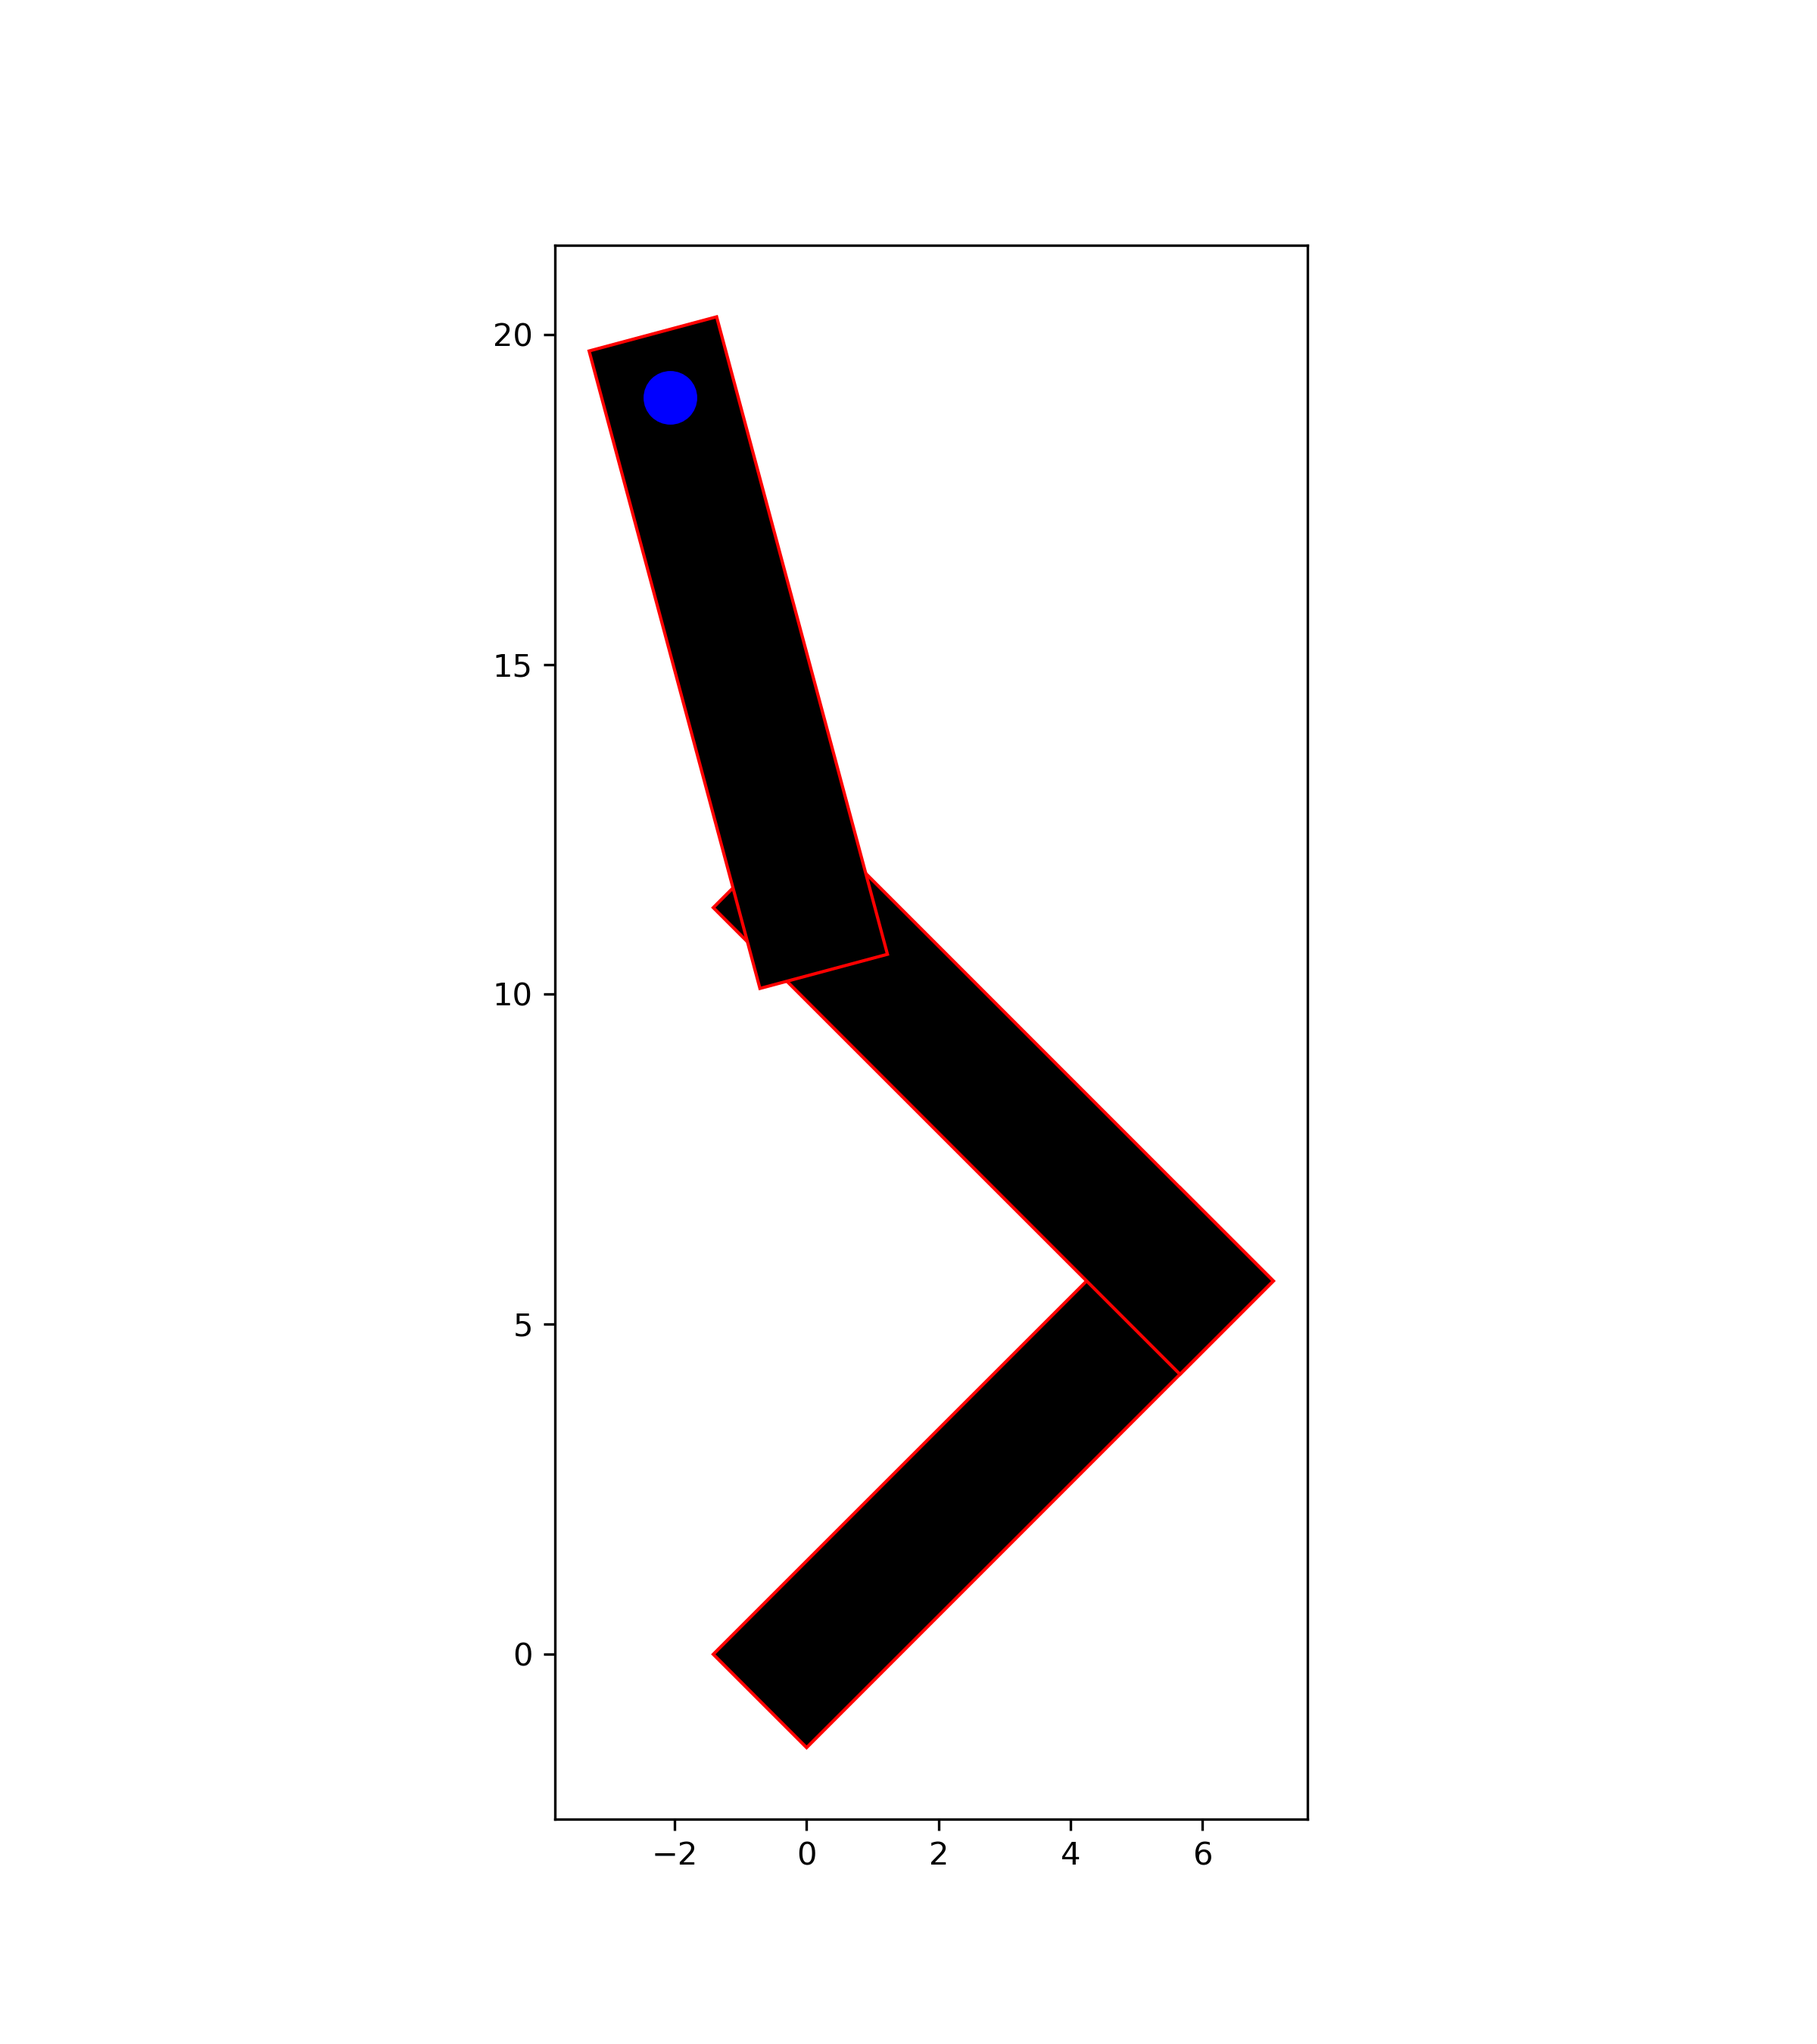
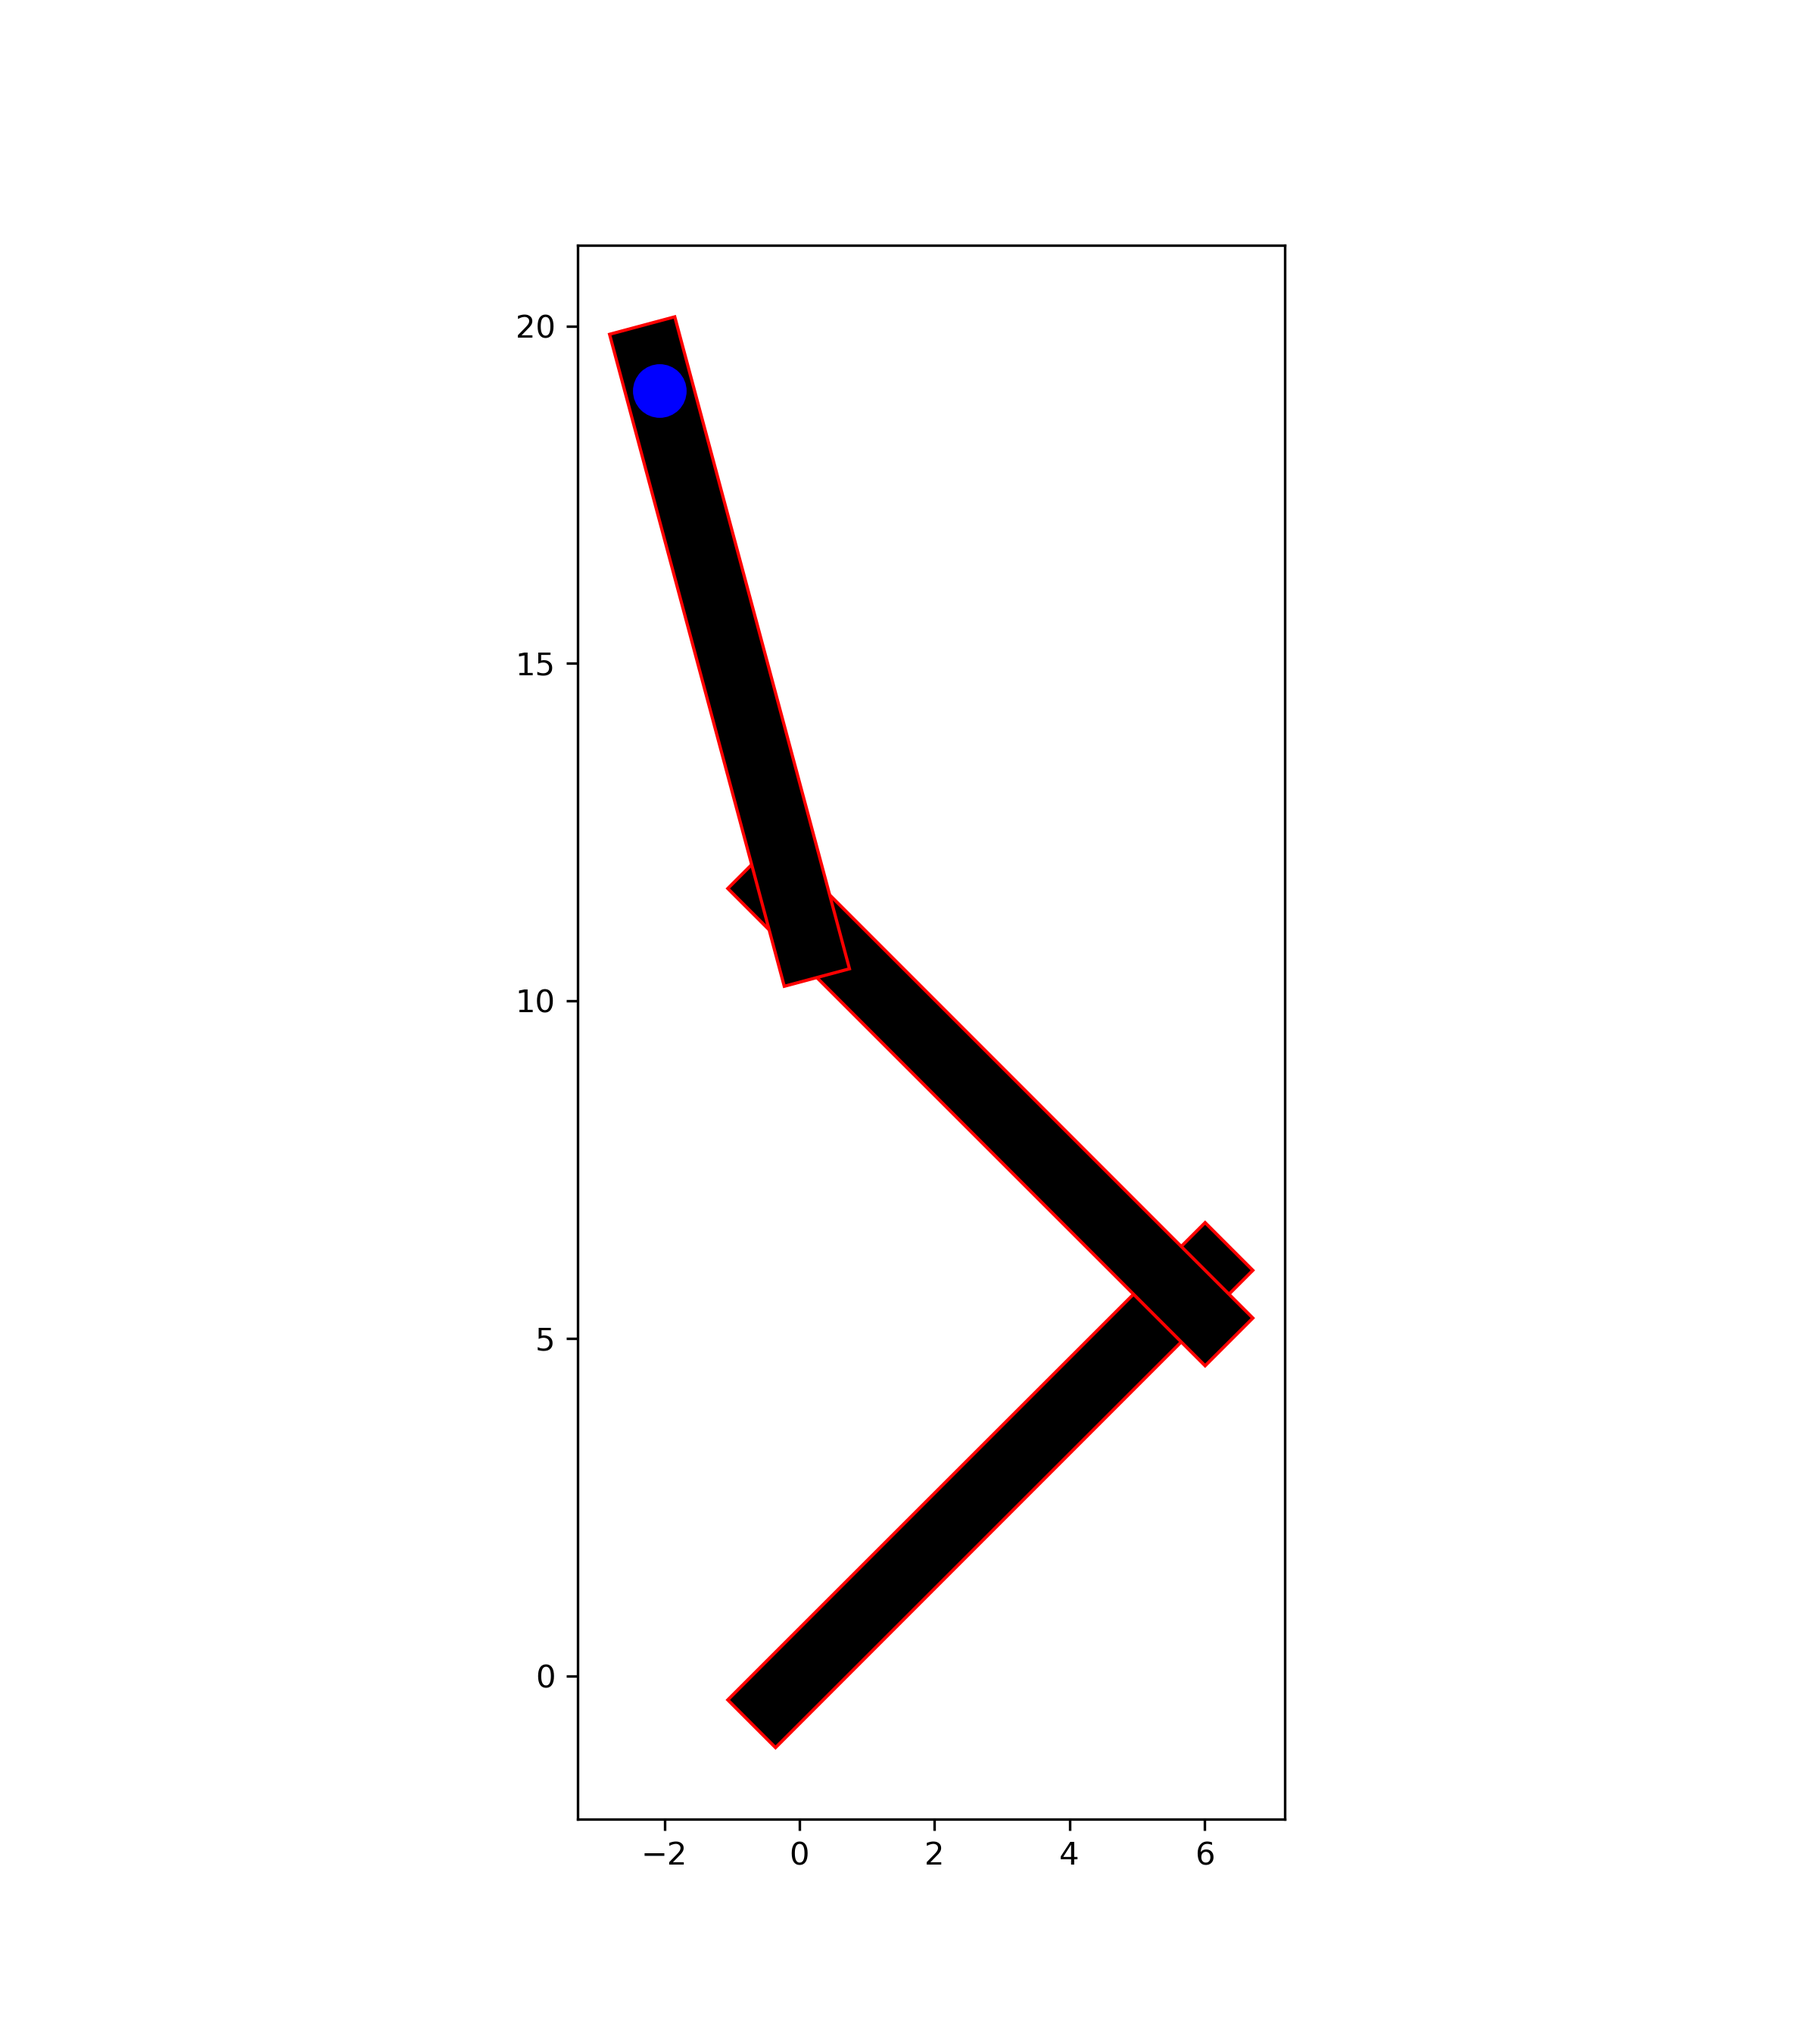
adding sketchy inverse kinematic solver for 2D objective with 3DoF manipulator

diff --git a/kinematics/Manipulator.py b/kinematics/Manipulator.py
@@ -21,31 +21,30 @@ class Manipulator:
     def __init__(self, desEndEffectorLocation, desJointAngles, links,
                  shouldSavePlots, baseSaveFName):
 
+        self.shouldSavePlots = shouldSavePlots
+        self.baseSaveFName = baseSaveFName
+
         self.links = links
         self.numLinks = len(links)
+        self.IK_TOL = 1e-6
 
         # start manipulator with all joints fully extended
         self.jointAngles = [0, 0, 0]
+        self.endEffectorLocation = [0, 0]
 
         if desJointAngles is not None:
             self.desJointAngles = desJointAngles
+            self.setAnglesToDesired()
         else:
             self.desJointAngles = self.jointAngles
-
-        print(self.desJointAngles)
-        print(self.jointAngles)
-        self.setEffectorToDesired()
-        print(self.endEffectorLocation)
 
         # need to convert effector location to numpy arrays for easy
         # transformation
         if desEndEffectorLocation is not None:
             self.desEndEffectorLocation = np.array(desEndEffectorLocation)
+            self.setEffectorToDesired()
         else:
             self.desEndEffectorLocation = self.endEffectorLocation
-
-        self.shouldSavePlots = shouldSavePlots
-        self.baseSaveFName = baseSaveFName
 
     #
     # @brief      reads in Link and kinematics parameters from YAML config file
@@ -69,11 +68,14 @@ class Manipulator:
         return (linkLengths, jointOffset,
                 desJointAnglesSet, desEndEffectorLocations)
 
-    def setEffectorToDesired(self):
+    def setAnglesToDesired(self):
 
         desJA = self.desJointAngles
         (self.links,
          self.endEffectorLocation) = self.forwardKinematics(self.links, desJA)
+
+        print('joint angles: ', self.jointAngles)
+        print('effector at: ', self.endEffectorLocation)
 
     def forwardKinematics(self, links, desJointAngles):
 
@@ -117,6 +119,82 @@ class Manipulator:
                                         endEffectorLocationXYZ[1]])
 
         return (links, endEffectorLocation)
+
+    def setEffectorToDesired(self):
+
+        desEff = self.desEndEffectorLocation
+        print('desired end effector pos:', desEff)
+        (self.links,
+         self.jointAngles) = self.inverseKinematics(self.links, desEff)
+
+        print('joint angles: ', self.jointAngles)
+        print('effector at: ', self.endEffectorLocation)
+
+    def inverseKinematics(self, links, desEndEffectorLocation):
+
+        x = desEndEffectorLocation[0]
+        y = desEndEffectorLocation[1]
+
+        a1 = links[0].linkLength - 2 * links[0].jointOffset
+        a2 = links[1].linkLength - 2 * links[1].jointOffset
+        a3 = links[2].linkLength - 2 * links[2].jointOffset
+
+        possibleTheta2 = []
+        possibleTheta3 = []
+
+        possibleTheta1 = np.linspace(0, math.pi, num=4)
+
+        for theta1 in possibleTheta1:
+
+            # locking one link in place - theta1 in [0, pi]
+            link1Origin = [0, 0]
+            lx = link1Origin[0] + a1 * math.cos(theta1)
+            ly = link1Origin[1] + a1 * math.sin(theta1)
+            print(lx, ly)
+
+            # adjust x and y so the system is solved assuming the link 2 and 3
+            # start at the origin
+            x -= lx
+            y -= ly
+
+            # trying the rest of the angles
+            cosTheta3 = (1 / (2 * a2 * a3)) * ((x**2 + y**2) -
+                                               (a2**2 + a3**2))
+            sinTheta3_1 = math.sqrt(1 - cosTheta3**2)
+            sinTheta3_2 = -math.sqrt(1 - cosTheta3**2)
+
+            possibleTheta3.append(math.atan2(sinTheta3_1, cosTheta3))
+            possibleTheta3.append(math.atan2(sinTheta3_2, cosTheta3))
+
+            k = (a2 + a3 * cosTheta3)
+            xi = a3 * math.sqrt(1 - cosTheta3**2)
+            mexican = (1 / (x**2 + y**2))
+            cosTheta2_1 = mexican * (x * k + y * xi)
+            cosTheta2_2 = mexican * (x * k - y * xi)
+
+            sinTheta2_1 = mexican * (y * k - x * xi)
+            sinTheta2_2 = mexican * (y * k + x * xi)
+
+            possibleTheta2.append(math.atan2(sinTheta2_1, cosTheta2_1))
+            possibleTheta2.append(math.atan2(sinTheta2_1, cosTheta2_2))
+            possibleTheta2.append(math.atan2(sinTheta2_2, cosTheta2_1))
+            possibleTheta2.append(math.atan2(sinTheta2_2, cosTheta2_2))
+
+            for theta2 in possibleTheta2:
+                for theta3 in possibleTheta3:
+                    desJA = [theta1, theta2, theta3]
+                    print('trying: ', desJA)
+                    (ll, endEffLoc) = self.forwardKinematics(links, desJA)
+                    self.endEffectorLocation = endEffLoc
+                    print('effector pos:', endEffLoc)
+                    xSolve = self.endEffectorLocation[0]
+                    ySolve = self.endEffectorLocation[1]
+
+                    totalError = abs(x + lx - xSolve) + abs(y + ly - ySolve)
+                    if totalError < self.IK_TOL:
+                        return (links, desJA)
+
+        return (links, desJA)
 
     #
     # @brief      Plot all workspace objects and saves to self.baseSaveFName

diff --git a/kinematics/Link.py b/kinematics/Link.py
@@ -9,19 +9,13 @@ class Link:
         self.linkLength = linkLength
         self.jointOffset = jointOffset
 
-        self.width = 2
-
+        self.width = 1
         self.bl = None
-        self.br = None
-        self.tl = None
-        self.tr = None
+        self.angle = None
 
         self.setOrigin(origin)
 
-        self.angle = None
-
     def setOrigin(self, origin):
-
         self.origin = origin
 
     def setAngle(self, angle):
@@ -29,14 +23,9 @@ class Link:
 
     def setEdgeVertices(self, TransfMat):
 
-        ox = self.origin[0]
-        oy = self.origin[1]
-        length = self.linkLength
         k = self.jointOffset
         w = self.width
 
         blLocal = np.array([[-k, w / 2, 1]]).T
-        tlLocal = np.array([[length + k, w / 2, 1]]).T
 
         self.bl = np.matmul(TransfMat, blLocal)
-        self.tl = np.matmul(TransfMat, tlLocal)
